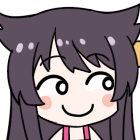
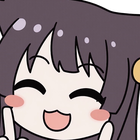
1.6.1：预览图改为角色封面；默认站点图标一并换新

diff --git a/README.md b/README.md
@@ -1,6 +1,6 @@
 # kanso
 
-![kanso](preview.png?v=7)
+![kanso](preview.png?v=8)
 
 极简探针（[Monitor](https://github.com/monitor-probe/monitor)）的第三方主题，源码基于上游默认主题
 `monitor-theme-default` v1.1.0 改造。纯静态前端，只读 hub 的公开接口，
@@ -14,7 +14,7 @@
 
 | 亮色 | 暗色 | 手机 |
 |:---:|:---:|:---:|
-| ![预览](preview.png?v=7) | ![暗色](preview-dark.png?v=7) | ![手机](preview-mobile.png?v=7) |
+| ![预览](preview.png?v=8) | ![暗色](preview-dark.png?v=7) | ![手机](preview-mobile.png?v=7) |
 
 
 ## 关于备注
